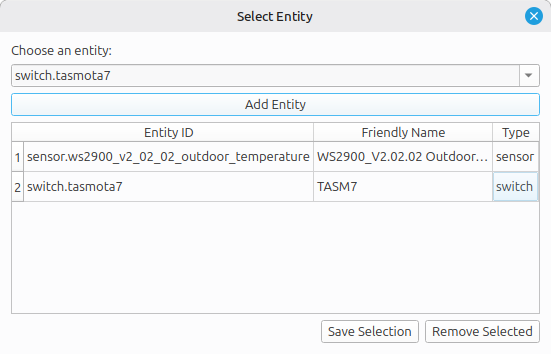
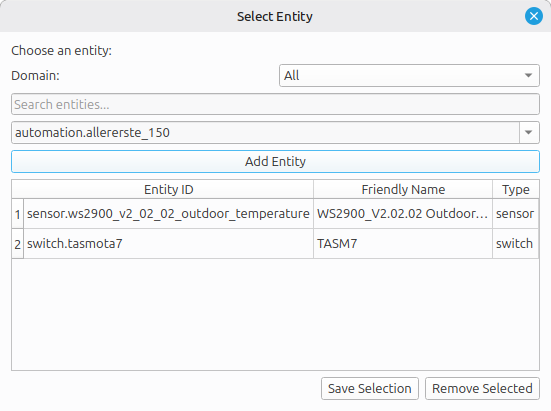
#76 Improve entity search

diff --git a/src/gui_sensors.py b/src/gui_sensors.py
@@ -1,6 +1,6 @@
 from PySide6.QtWidgets import (QDialog, QVBoxLayout, QHBoxLayout, QLabel, 
                                QComboBox, QPushButton, QTableWidget, QTableWidgetItem,
-                               QInputDialog, QHeaderView)
+                               QInputDialog, QHeaderView, QLineEdit, QMessageBox)
 
 import api
 import settings
@@ -31,6 +31,23 @@ class SensorSelectorDialog(QDialog):
         
         self.setup_ui()
         self.load_selected_entities()
+    
+    def filter_entities(self, text=None):
+        """Filter entity list based on search text and domain"""
+        self.combobox.clear()
+        
+        # Get current filters
+        search_text = self.search_box.text().lower()
+        domain = self.domain_filter.currentText()
+        
+        # Apply filters
+        filtered = self.entity_list
+        if domain != 'All':
+            filtered = [e for e in filtered if e.startswith(domain + '.')]
+        if search_text:
+            filtered = [e for e in filtered if search_text in e.lower()]
+        
+        self.combobox.addItems(sorted(filtered))
         self.adjustSize()
 
     def setup_ui(self):
@@ -38,6 +55,22 @@ class SensorSelectorDialog(QDialog):
         
         # Entity selection
         layout.addWidget(QLabel("Choose an entity:"))
+        
+        # Domain filter
+        filter_layout = QHBoxLayout()
+        filter_layout.addWidget(QLabel("Domain:"))
+        self.domain_filter = QComboBox()
+        domains = ['All'] + sorted(set(e.split('.')[0] for e in self.entity_list))
+        self.domain_filter.addItems(domains)
+        self.domain_filter.currentTextChanged.connect(self.filter_entities)
+        filter_layout.addWidget(self.domain_filter)
+        layout.addLayout(filter_layout)
+        
+        # Search/filter box
+        self.search_box = QLineEdit()
+        self.search_box.setPlaceholderText("Search entities...")
+        self.search_box.textChanged.connect(self.filter_entities)
+        layout.addWidget(self.search_box)
         
         self.combobox = QComboBox()
         self.combobox.addItems(sorted(self.entity_list))
